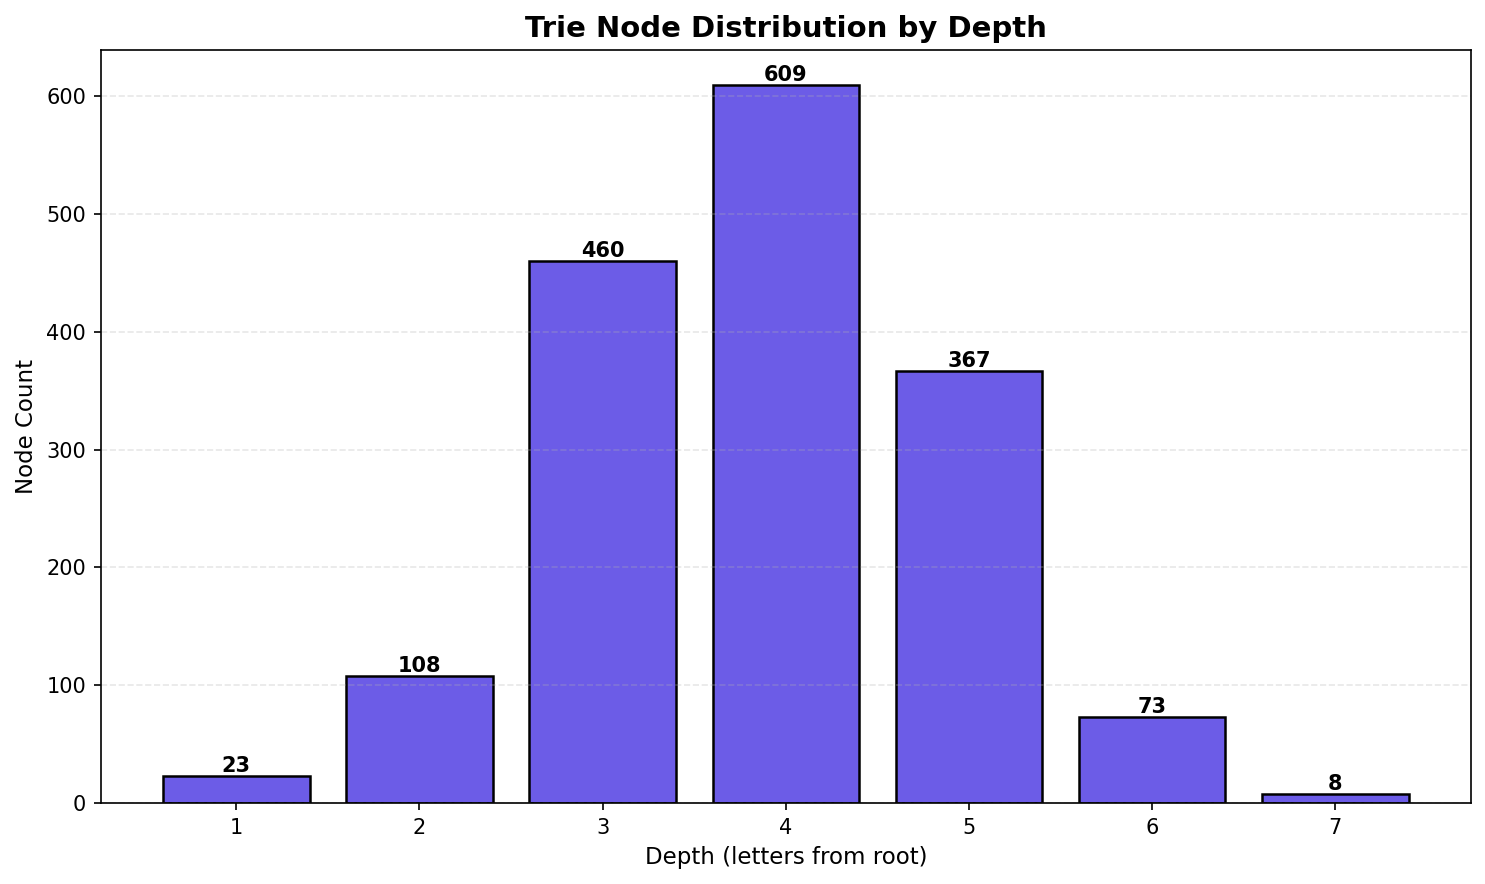
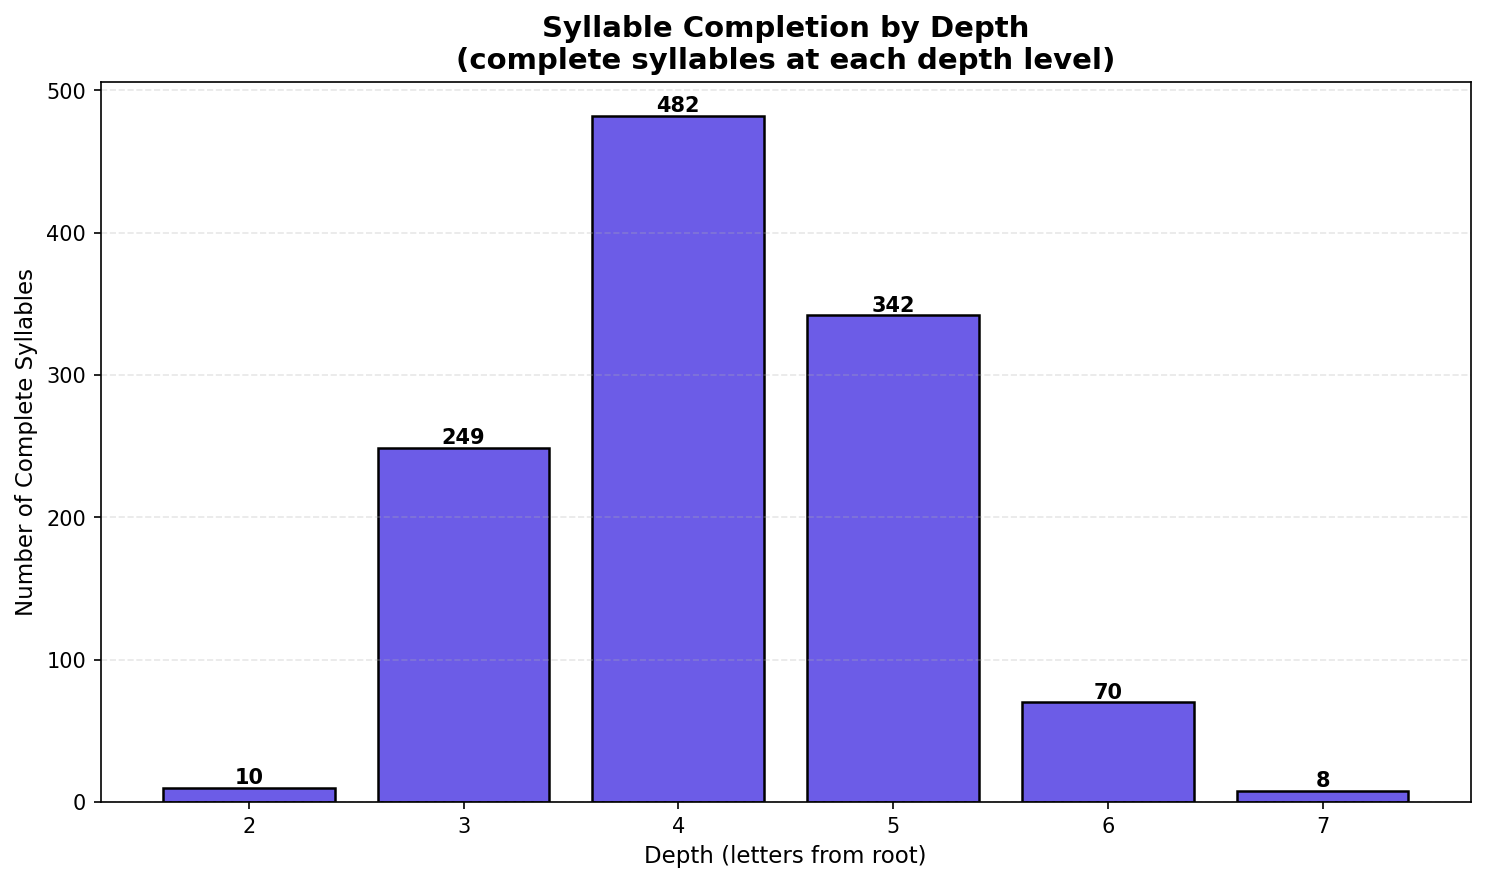
Fix depth distribution to count terminal nodes only

diff --git a/scripts/character_set/analysis/analyze_trie.py b/scripts/character_set/analysis/analyze_trie.py
@@ -40,21 +40,26 @@ def collect_all_syllables(node, prefix=""):
 
 def analyze_depth_distribution(trie):
     """
-    Analyze node distribution by depth.
+    Analyze terminal node (complete syllables) distribution by depth.
 
-    Returns: dict {depth: node_count}
+    Returns: dict {depth: terminal_node_count}
     """
-    def count_by_depth(node, depth=0):
-        counts = {depth: 1}
+    def count_terminals_by_depth(node, depth=0):
+        counts = {}
 
+        # Only count if this is a terminal node (complete syllable)
+        if node.get('is_end'):
+            counts[depth] = 1
+
+        # Recurse to children
         for child in node.get('children', {}).values():
-            child_counts = count_by_depth(child, depth + 1)
+            child_counts = count_terminals_by_depth(child, depth + 1)
             for d, count in child_counts.items():
                 counts[d] = counts.get(d, 0) + count
 
         return counts
 
-    return count_by_depth(trie)
+    return count_terminals_by_depth(trie)
 
 
 def extract_tone(syllable):
@@ -171,7 +176,7 @@ def plot_tone_distributions(distributions, output_dir):
 
 def plot_depth_distribution(depth_counts, output_dir):
     """
-    Create bar chart for node distribution by depth.
+    Create bar chart for terminal node (complete syllables) distribution by depth.
     """
     matplotlib.use('Agg')
 
@@ -189,9 +194,9 @@ def plot_depth_distribution(depth_counts, output_dir):
                f'{count:,}',
                ha='center', va='bottom', fontsize=10, fontweight='bold')
 
-    ax.set_title('Trie Node Distribution by Depth', fontsize=14, fontweight='bold')
+    ax.set_title('Syllable Completion by Depth\n(complete syllables at each depth level)', fontsize=14, fontweight='bold')
     ax.set_xlabel('Depth (letters from root)', fontsize=11)
-    ax.set_ylabel('Node Count', fontsize=11)
+    ax.set_ylabel('Number of Complete Syllables', fontsize=11)
     ax.set_xticks(depths)
     ax.grid(axis='y', alpha=0.3, linestyle='--')
     ax.yaxis.set_major_formatter(plt.FuncFormatter(lambda x, p: f'{int(x):,}'))
@@ -524,11 +529,11 @@ def print_summary_statistics(syllables, depth_counts, distributions):
 
     # Depth distribution
     print(f"\n" + "-" * 70)
-    print("Node Distribution by Depth:")
+    print("Complete Syllables by Depth:")
     print("-" * 70)
     for depth in sorted(depth_counts.keys()):
         count = depth_counts[depth]
-        print(f"  Depth {depth}: {count:4,} nodes")
+        print(f"  Depth {depth}: {count:4,} complete syllables")
 
 
 def print_common_syllables(most_common, least_common):

diff --git a/data/character_set/analysis/PINYIN_TRIE_ANALYSIS.md b/data/character_set/analysis/PINYIN_TRIE_ANALYSIS.md
@@ -106,19 +106,22 @@ This analysis examines 1,161 unique pinyin syllables actually used in a corpus o
 
 ---
 
-## Syllable Depth Distribution
+## Syllable Completion by Depth
 
-| Depth | Nodes | Description |
-|-------|-------|-------------|
-| 1 | 23 | Initial consonants (b, c, d, ..., z) |
-| 2 | 108 | Two-letter combinations |
-| 3 | 460 | Three-letter combinations |
-| 4 | 609 | **Peak** - most syllables complete here |
-| 5 | 367 | Longer syllables |
-| 6 | 73 | Even longer (chang, chuan, etc.) |
-| 7 | 8 | Longest syllables (chuang, shuang, zhuang) |
+**Note:** This measures where complete syllables END (terminal nodes only), not all nodes in the tree.
 
-**Peak at depth 4:** Most syllables are 4-5 letters long (e.g., `tian1`, `wang2`, `hao3`).
+| Depth | Complete Syllables | Percentage | Description |
+|-------|-------------------|------------|-------------|
+| 2 | 10 | 0.9% | Very short syllables (e, r, a, etc.) |
+| 3 | 249 | 21.4% | Three-letter syllables (ban, hao, etc.) |
+| 4 | 482 | 41.5% | **Peak** - Most syllables complete here |
+| 5 | 342 | 29.5% | Longer syllables (tian, wang, etc.) |
+| 6 | 70 | 6.0% | Even longer (chang, chuan, etc.) |
+| 7 | 8 | 0.7% | Longest syllables (chuang, shuang, zhuang) |
+
+**Total:** 1,161 complete syllables
+
+**Peak at depth 4:** 41.5% of all syllables complete at depth 4 (3 letters + tone). Examples: `ban1`, `mao2`, `hao3`, `zhu4`.
 
 **Longest syllables (depth 7, all -uang):**
 - chuang1, chuang2, chuang3, chuang4
@@ -188,10 +191,11 @@ This analysis examines 1,161 unique pinyin syllables actually used in a corpus o
 ## Visualizations Generated
 
 1. **tone_distributions.png** - 3-panel comparison of tone distributions
-2. **depth_distribution.png** - Node count by syllable depth
+2. **depth_distribution.png** - Syllable completion by depth (terminal nodes only)
 3. **polyphonic_characters.png** - Top 20 characters with most pronunciations
 4. **syllable_complexity.png** - Character count distribution per syllable
-5. **pinyin_trie_visualization.svg** - Interactive full Trie structure
+5. **syllable_tone_matrix.png** - Heatmap of 401 base syllables × 5 tones
+6. **pinyin_trie_visualization.svg** - Interactive full Trie structure
 
 ---
 

diff --git a/scripts/character_set/analysis/README.md b/scripts/character_set/analysis/README.md
@@ -16,8 +16,8 @@ Analysis tools for the Chinese character dataset, with focus on pinyin syllable 
 **analyze_trie.py** - Comprehensive statistical analysis and visualization
 - Input: `pinyin_trie.json`
 - Outputs: 5 PNG charts + console report
-- Analyzes: tone distributions, syllable complexity, polyphonic characters, depth distribution, syllable×tone matrix
-- Generates: `PINYIN_TRIE_ANALYSIS.md` with key findings
+- Analyzes: tone distributions, syllable complexity, polyphonic characters, syllable completion by depth, syllable×tone matrix
+- **New**: Depth distribution now counts terminal nodes only (where syllables complete)
 - **New**: Syllable×tone heatmap shows 401 base syllables across 5 tones with character counts
 
 **visualize_trie.py** - Interactive SVG visualization of Trie structure
@@ -64,7 +64,7 @@ All outputs are stored in `../../../data/character_set/analysis/`:
 
 ### Statistical Charts
 - `tone_distributions.png` - 3-panel tone comparison (by syllables, characters, frequency)
-- `depth_distribution.png` - Node count by depth (depths 1-7)
+- `depth_distribution.png` - Syllable completion by depth (terminal nodes only, depths 2-7)
 - `polyphonic_characters.png` - Top 20 characters with most pronunciations
 - `syllable_complexity.png` - Character count distribution per syllable
 - `syllable_tone_matrix.png` - Heatmap of 401 base syllables × 5 tones with character counts
@@ -208,7 +208,7 @@ python3 build_pinyin_trie.py
 
 ### Run Statistical Analysis
 ```bash
-# Generates 5 charts + PINYIN_TRIE_ANALYSIS.md
+# Generates 5 charts + console report + updates PINYIN_TRIE_ANALYSIS.md
 python3 analyze_trie.py
 ```
 
